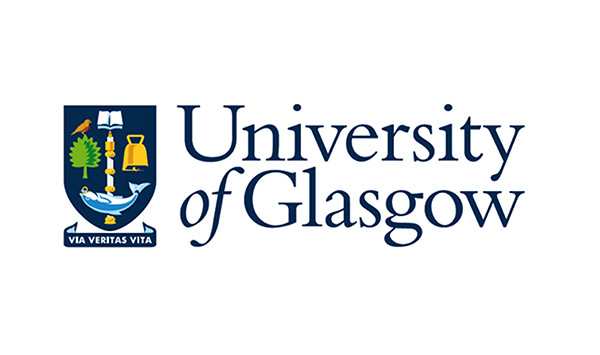
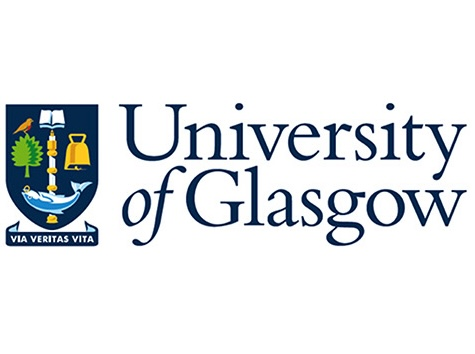
2

diff --git a/_pages/about.md b/_pages/about.md
@@ -96,7 +96,7 @@ redirect_from:
     <div style="font-size: 12px; color: #1B1212;">M.Tech, Data Science & Eng., <a href="http://www.bits-pilani.ac.in/">BITS Pilani</a>, India<br>Mar. 2022 - May. 2024</div>
     </div>
     <div style="text-align: center; margin: 10px;">
-    <img src="../images/UoG.png" alt="Logo5" style="width: 100px; height: 100px; margin-bottom: 10px;">
+    <img src="../images/Uni_Glasgow_1.jpg" alt="Logo5" style="width: 100px; height: 100px; margin-bottom: 10px;">
     <div style="font-size: 12px; color: #1B1212;">Master's Thesis Research Student,<a href="https://www.gla.ac.uk/"> University of Glasgow</a>, UK,<br>Dec. 2023 - Mar. 2024</div>
     </div>
     <!-- <div style="text-align: center; margin: 10px;">
